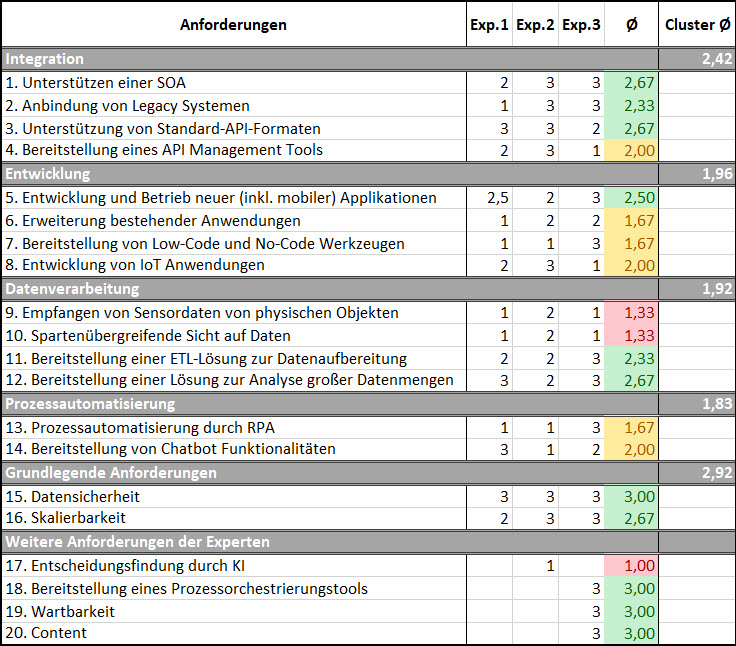
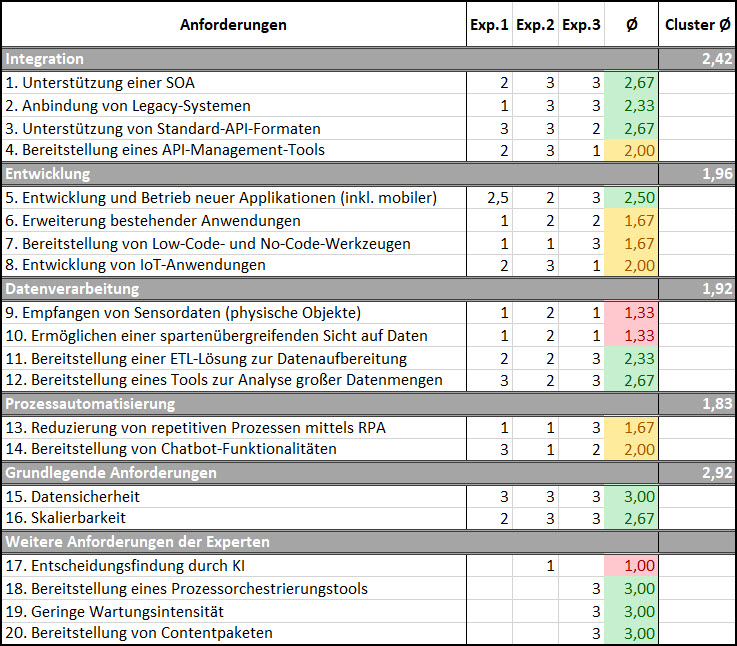
Kapitel 4 fertig

diff --git a/content/evaluation.tex b/content/evaluation.tex
@@ -4,8 +4,6 @@
 
 \subsection{Literaturbetrachtung aktueller Anforderungen an digitale Plattformen}
 
-\improvement{Optimierung der Quellen bei den Anforderungen}
-
 Im Nachfolgenden werden die in der Literatur gefundenen Anforderungen unter den Punkten 1-16 beschrieben. Eine Übersicht über die identifizierten Anforderungen ist in Abbildung \ref{fig:PPAnf} dargestellt.
 
 \begin{figure}[h]
@@ -30,9 +28,9 @@ Eine der größten Herausforderungen, denen sich \ac{kfz}-Versicherungsunternehm
 
 (5) Neben der Entwicklung und dem Betrieb von klassischen Webanwendungen muss die Plattform auch \textbf{mobile Applikationen} unterstützen, da immer mehr Kunden ihre Mobilgeräte nutzen, um auf Versicherungsdienstleistungen zuzugreifen und diese zu verwalten. So können Mobile Apps beispielsweise bei einem Autounfall dazu verwendet werden, den eigenen Standort sowie Fotos vom Schaden zu teilen. \autocite[Vgl.][S. 7]{HU2020}
 
-(6) Darüber hinaus sollte es die Plattform ermöglichen, \textbf{bestehende Anwendungen} mithilfe von kleinen Programmcodes \textbf{eigenständig zu erweitern}, um die Anwendungen nach den Bedürfnissen der \ac{kfz}-Versicherer anpassen zu können. \autocite[Vgl.][]{WEINGARTNER2023}
+(6) Darüber hinaus sollte es die Plattform ermöglichen, \textbf{bestehende Anwendungen} mithilfe von kleinen Programmcodes eigenständig \textbf{zu erweitern}, um die Anwendungen nach den Bedürfnissen der \ac{kfz}-Versicherer anpassen zu können. \autocite[Vgl.][]{WEINGARTNER2023}
 
-(7) Hierbei gilt es zu berücksichtigen, dass insbesondere bei kleinen und mittelgroßen Versicherern die Entwicklungsressourcen sehr knapp sind. Daher sollte die Plattform ebenfalls sogenannte \textbf{Low- oder besser No-Code-Werkzeuge bereitstellen}, damit auch Nutzer aus den Fachabteilungen kleine Applikationen sowie Erweiterungen erstellen können.\autocite[Vgl.][]{VBLOWCODE2022}
+(7) Hierbei gilt es zu berücksichtigen, dass insbesondere bei kleinen und mittelgroßen Versicherern die Entwicklungsressourcen sehr knapp sind. Daher sollte die Plattform ebenfalls sogenannte \textbf{Low-Code- sowie No-Code-Werkzeuge bereitstellen}, damit auch Nutzer aus den Fachabteilungen kleine Applikationen sowie Erweiterungen erstellen können.\autocite[Vgl.][]{VBLOWCODE2022}
 
 (8, 9) Ein weiterer Trend, der die letzten Jahre insbesondere bei jungen Fahrern sehr beliebt ist, sind Telematik-Tarife. Telematik bezeichnet dabei allgemein die Verbindung von Informatik und Telekommunikation, \autocite[Vgl.][S. 10-11]{ABTS2017} und ermöglicht in der \ac{kfz}-Versicherungsbranche die Berücksichtigung des individuellen Fahrverhaltens des Versicherungsnehmers sowie anderer externer Rahmenbedingungen bei der Prämienbestimmung \autocite[Vgl.][S. 84]{MERZINGER2017}. So kann der Versicherer seine Produkte besser an das Risikoprofil seiner Kunden anpassen und die Kunden bei einer zurückhaltenden Fahrweise von günstigeren Preisen profitieren. Hierfür werden mithilfe von Sensoren im Auto verschiedene Daten zum Fahrstil des Nutzers erfasst und zur Tarifierung an den Versicherer übermittelt. \autocite[Vgl.][S. 3-4]{ELING2020} Für den Einsatz von technologischen Plattformen bei \ac{kfz}-Versicherern ist es folglich wichtig, dass die Plattform \textbf{Sensordaten von physischen Objekten in Echtzeit empfangen kann} \autocite[Vgl.][S. 10-15]{WEICHERT2015}. Zudem sollte die Plattform auch Möglichkeiten zur \textbf{Entwicklung von \ac{iot}-Anwendungen} bereitstellen, um Sensordaten in Geschäftsprozesse integrieren zu können. 
 
@@ -46,8 +44,7 @@ Eine der größten Herausforderungen, denen sich \ac{kfz}-Versicherungsunternehm
 
 (14) Gemäß Reich (2019) besteht eine zusätzliche Option für die Automatisierung von Kundeninteraktion in der \ac{kfz}-Versicherungsbranche bei Fällen wie Anträgen, Auskünften oder Schadensmeldungen durch den Einsatz von Chatbots. So können Fragen von Kunden, insbesondere solche, die sich auf Versicherungspolicen, Abrechnungen oder Schadensmeldungen beziehen, jederzeit beantwortet werden, ohne dass der Kunde auf einen Mitarbeiter warten muss. Dadurch kann der Bedarf nach Mitarbeitern in der Sachbearbeitung reduziert und die Kundenzufriedenheit erhöht werden, weshalb die Plattform für Versicherer auch \textbf{Chatbot-Funktionalitäten} bereitstellen sollte. \autocite[Vgl.][S. 300-302]{REICH2019}
 
-(15) Die strikten regulatorischen Anforderungen innerhalb der Versicherungsbranche erfordern eine ausgeprägte \textbf{Datensicherheit} für alle verwendeten Softwarelösungen, einschließlich technischer Plattformen. Da die individuelle Überprüfung des Sicherheitsniveaus zu aufwändig ist, greifen Versicherungsunternehmen in der Praxis auf Zertifizierungen und Testate zurück. \autocite[Vgl.][S. 777]{ZDANOWIECKI2016} Die \acsu{iso}/\acsu{iec} 27001 Norm, der International Organization for Standardization sowie der International Electrotechnical Commission dient dabei als Standard für Cloud-basierte Lösungen. Zusätzlich müssen Kfz-Versicherer sicherstellen, dass die Verarbeitung von personenbezogenen Daten den Vorschriften der \ac{dsgvo} entspricht. Hierfür wurde der Standard ISO/IEC 27018 festgelegt. Folglich sollte eine technische Plattform für \ac{kfz}-Versicherer sowohl \textbf{nach ISO/IEC 27001 als auch nach ISO/IEC 27018 zertifiziert} sein. 
-\improvement{Fehlt hier ein Zitat}
+(15) Die strikten regulatorischen Anforderungen innerhalb der Versicherungsbranche erfordern eine ausgeprägte \textbf{Datensicherheit} für alle verwendeten Softwarelösungen, einschließlich technischer Plattformen. Da die individuelle Überprüfung des Sicherheitsniveaus zu aufwändig ist, greifen Versicherungsunternehmen in der Praxis auf Zertifizierungen und Testate zurück. \autocite[Vgl.][S. 777]{ZDANOWIECKI2016} Die \acsu{iso}/\acsu{iec} 27001 Norm, der International Organization for Standardization sowie der International Electrotechnical Commission dient dabei als Standard für Cloud-basierte Lösungen. Zusätzlich müssen Kfz-Versicherer sicherstellen, dass die Verarbeitung von personenbezogenen Daten den Vorschriften der \ac{dsgvo} entspricht. Hierfür wurde der Standard ISO/IEC 27018 festgelegt.\autocite[Vgl.][S. 194-196]{HENNRICH2023} Folglich sollte eine technische Plattform für \ac{kfz}-Versicherer sowohl \textbf{nach ISO/IEC 27001 als auch nach ISO/IEC 27018 zertifiziert} sein. 
 
 (16) Eine weitere Anforderung, die ebenfalls von Beginn an erfüllt sein sollte, ist die Fähigkeit der \textbf{Plattform zur horizontalen und vertikalen Skalierbarkeit}. Dies erfordert, dass die Plattform zusätzliche Server automatisch starten und Lasten auf mehrere Server verteilen kann, um hohe Nutzerzahlen zu bewältigen, wie sie speziell im Herbst bei \ac{kfz}-Versicherern aufgrund des verstärkten Wechsels von Versicherungsnehmnern vorkommen können. (horizontale Skalierbarkeit). Des Weiteren muss die Plattform in der Lage sein, je nach Bedarf die Rechenleistung und Speicherkapazität des Servers zu erhöhen, um einem höheren Ressourcenbedarf gerecht zu werden (vertikale Skalierbarkeit). \autocite[Vgl.][S. 23]{JAHNERT2020}
 
@@ -57,17 +54,15 @@ Eine der größten Herausforderungen, denen sich \ac{kfz}-Versicherungsunternehm
 
 \improvement{Hier die Punkte der Bafin noch mit dazunehmen}
 
-Die zuvor aus der Literatur herausgearbeiteten Anforderungen konnten von allen Experten bestätigt werden. Hervorgehoben wurde dabei insbesondere, dass der Preis für den Endkunden der alles entscheidende Faktor ist und daher aktuell alle \ac{kfz}-Versicherer versuchen, ihre komplette Lieferkette zu digitalisieren. Dabei wurde ebenfalls die Unterstützung von mobilen Anwendungen als sehr wichtig betont, um dort dann beispielsweise Tätigkeiten wie das Buchen eines Werkstatttermins durchzuführen. 
+Die zuvor aus der Literatur herausgearbeiteten Anforderungen konnten von allen Experten bestätigt werden. Hervorgehoben wurde dabei insbesondere, dass der Preis für den Endkunden der alles entscheidende Faktor ist und daher aktuell alle \ac{kfz}-Versicherer versuchen, ihre komplette Lieferkette zu digitalisieren. Dabei wurde ebenfalls die Unterstützung von mobilen Anwendungen als sehr wichtig betont, um dort dann beispielsweise Tätigkeiten wie das Buchen eines Werkstatttermins durchzuführen. Des Weiteren wurde von Experte 1 das Unterstützen einer \enquote{Entkopplungsarchitektur} als Anforderung genannt, damit \ac{kfz}-Versicherer agil an der Kundenschnittstelle agieren und gleichzeitig auf die statischen Informationen aus den Altsystemen zugreifen können.\autocite[Vgl.][]{LEMONIDIS2023} Die dafür notwendige Kapselung der Altsysteme und das Bereitstellen dieser über Schnittstellen unterstützt im Wesentlichen die Anforderung einer \ac{soa}. Zudem wurde von Experte 2 die leichte Integration der \ac{kfz}-Versicherer in Ökosysteme und Vertriebskanäle wie Check24 mit den Schlagworten Open Insurance und Embedded Insurance betont.\autocite[Vgl.][]{GREBERT2023} Beide werden im Rahmen dieser Arbeit unter der Anforderung \enquote{Unterstützung von Standard-API-Formaten} zusammengefasst, da diese die dafür notwendige Voraussetzung sind. Weitere Anforderungen, die von den Experten ergänzt wurden, werden im Folgenden kurz vorgestellt.
 
-Des Weiteren wurde von Experte 1 das Unterstützen einer \enquote{Entkopplungsarchitektur} als Anforderung genannt, damit \ac{kfz}-Versicherer agil an der Kundenschnittstelle agieren und gleichzeitig auf die statischen Informationen aus den Altsystemen zugreifen können.\autocite[Vgl.][]{LEMONIDIS2023} Die dafür notwendige Kapselung der Altsysteme und das Bereitstellen dieser über Schnittstellen unterstützt im Wesentlichen die Anforderung einer \ac{soa}. Zudem wurde von Experte 2 die leichte Integration der \ac{kfz}-Versicherer in Ökosysteme und Vertriebskanäle wie Check24 mit den Schlagworten Open Insurance und Embedded Insurance betont.\autocite[Vgl.][]{GREBERT2023} Beide werden im Rahmen dieser Arbeit unter der Anforderung offene Schnittstellenstandards zusammengefasst, da diese die dafür notwendige Voraussetzung sind. Weitere Anforderungen, die von den Experten ergänzt wurden, werden im Folgenden kurz vorgestellt.
+(17) \textbf{Entscheidungsfindung durch \ac{ki}} – Für Experte 2 stellte zudem das Unterstützen der \ac{kfz}-Versicherer bei der Entscheidungsfindung durch \ac{ki}-Modelle in Prozessen wie der Akquise oder dem Schadensprozess eine weitere Anforderung dar, um bestimmte Sachverhalte prüfen zu lassen.\autocite[Vgl.][]{GREBERT2023} 
 
-(17) Entscheidungsfindung durch \ac{ki} – Für Experte 2 stellte zudem das Unterstützen der \ac{kfz}-Versicherer bei der Entscheidungsfindung durch \ac{ki} Modelle in Prozesse wie der Akquise oder dem Schadensprozess eine weitere Anforderung dar, um bestimmte Sachverhalte prüfen zu lassen.\autocite[Vgl.][]{GREBERT2023} 
+(18) \textbf{Bereitstellung eines Prozessorchestrierungstools} – Aus Sicht des Experten 3 ist es für \ac{kfz}-Versicherer zudem wichtig, dass die Plattform ein Prozessorchestrierungstool bereitstellt, mit dem Prozesse systemübergreifend end-to-end designt, verwaltet und gezielt Prozessschritte in den jeweiligen Lösungen über Schnittstellen angesteuert werden können. \autocite[Vgl.][]{SCHMIDT2023} 
 
-(18) Bereitstellung einer Prozessorchestrierungslösung – Aus Sicht des Experten 3 ist es für \ac{kfz}-Versicherer zudem wichtig, dass die Plattform ein Prozessorchestrierungstool bereitstellt, mit dem Prozesse systemübergreifend end-to-end designt, verwaltet und gezielt Prozessschritte in den jeweiligen Lösungen über Schnittstellen angesteuert werden können. \autocite[Vgl.][]{SCHMIDT2023} 
+(19) \textbf{Geringe Wartungsintensität} – Für Experte 3 stellte eine weitere grundlegende Anforderung die einfache Wartbarkeit der Plattform dar, sodass beispielsweise neue Releases automatisch eingespielt und damit die neuesten Technologien direkt bereitgestellt werden können. \autocite[Vgl.][]{SCHMIDT2023} 
 
-(19) Wenig Wartungsaufwand – Für Experte 3 stellte eine weitere grundlegende Anforderung die einfache Wartbarkeit der Plattform dar, sodass beispielsweise neue Releases automatisch eingespielt und damit die neuesten Technologien direkt bereitgestellt werden können. \autocite[Vgl.][]{SCHMIDT2023} 
-
-(20) Contentpakete – Aus Sicht des Experten 3 sollte eine technische Plattform neben den bereitgestellten Tools in den einzelnen Clustern auch Contentpakete bereitstellen. Mit dem Begriff Content sind dabei Inhalte gemeint, die den Implementierungsaufwand in den einzelnen Bereichen reduzieren. Das können bspw. vordefinierte Schnittstellen, Adaptoren oder auch vordefinierte Frameworks sein. \autocite[Vgl.][]{SCHMIDT2023} 
+(20) \textbf{Bereitstellung von Contentpaketen} – Aus Sicht des Experten 3 sollte eine technische Plattform neben den bereitgestellten Tools in den einzelnen Clustern auch Contentpakete bereitstellen. Mit dem Begriff Content sind dabei Inhalte gemeint, die den Implementierungsaufwand in den einzelnen Bereichen reduzieren. Das können bspw. vordefinierte Schnittstellen, Adaptoren oder auch vordefinierte Frameworks sein. \autocite[Vgl.][]{SCHMIDT2023} 
 
 Nach Überprüfung und Ergänzung der in der Literatur gefundenen Anforderungen, wurden die Anforderungen von den Experten ebenfalls nach ihrer Wichtigkeit in den nächsten Jahren priorisiert. Die Aufgaben wurden nach Themen gruppiert und die Bewertung durch die Experten zunächst einzeln aufgeführt und dann Durchschnittswerte je Anforderung und je Cluster gebildet. Die Experten konnten einen Wert von 1-3 vergeben, wobei 1 für eine niedrige, 2 für eine mittlere und 3 für eine hohe Priorität steht. Wurden von einem Experten weitere Anforderungen benannt und diese im Rahmen der Analyse zu bereits identifizierten Anforderungen dazugezählt, wird für die Priorisierung der Anforderung der Mittelwert gebildet.
 
@@ -95,8 +90,6 @@ Anhand der Abbildung \ref{fig:Gewichtung} ist zu erkennen, dass die Experten die
 
 Aufgrund des begrenzten Umfangs dieser Projektarbeit werden vom umfangreichen Serviceportfolio der SAP \ac{btp} im Folgenden nur die Kernfunktionalitäten in den Bereichen Datenmanagement, Datenanalyse, Anwendungsentwicklung, Integration und intelligente Technologien vorgestellt. Grundsätzlich lässt sich festhalten, dass die Services der einzelnen Bereiche als Cloud Service konsumierbar sind und daher Cloud-Eigenschaften wie Elastizität, Skalierung und Hochverfügbarkeit erfüllen. \autocite[Vgl.][S. 60]{SEUBERT} Zudem ist die SAP \ac{btp} nach den Standards ISO27001, ISO27017, ISO27018, ISO22301 und C5 zertifiziert und entspricht damit den gängigen Anforderungen an die Datensicherheit.(vgl. \ref{sec:BTPZertifikate}) Die Services aus den einzelnen Bereichen bauen dabei auf den sogenannten Foundational Services auf. Diese umfassen beispielsweise ein Identity Service zur Authentifizierung, ein Audit-Log-Service zum Aufzeichnen von sicherheitsrelevanten Handlungen oder einen Application Autoscaler Service zur automatischen Skalierung von Anwendungen. \autocite[Vgl.][S. 58]{SEUBERT}
 
-\improvement{Abbildung als Übersicht über die BTP einbauen}
-
 Im Bereich des \textbf{Datenmanagements} lassen sich mit der SAP \ac{btp} verschiedene Datenarchitekturen wie beispielsweise eine zentrale Datenplattform oder ein Data Fabric realisieren. Diese können aufgrund des Plattformansatzes kontinuierlich weiterentwickelt und miteinander kombiniert werden. Für die transaktionale Verarbeitung von Daten kann der Datenbankservice SAP \ac{hana} Cloud der \ac{btp} verwendet werden, um Daten gemäß ihrer Eigenschaften zu organisieren und zu verarbeiten. Darüber hinaus ermöglicht der Data Intelligence Service der \ac{btp} den Aufbau einer Data Fabric Architektur. \autocite[Vgl.][S. 64-66]{SEUBERT} So können mit dem Service unstrukturierte und strukturierte Daten aus verschiedenen Quellen (Datenbanken, \ac{it}-Anwendungen, Dateisysteme, Cloud-Service) unabhängig vom Betriebsmodell der Datenquelle integriert werden. Zudem können die für die Integration und Verarbeitung der Daten erforderlichen Aufgaben vom Data Intelligence Service orchestriert werden. \autocite[Vgl.][]{DATAINTELLIGENCE} Zur Aufbereitung der Daten kann der SAP Datasphere Service eingesetzt werden. Dieser kann die Daten aus den unterschiedlichen Systemen föderieren, transformieren und zur Auswertung in ein dafür geeignetes Zielsystem, wie die \ac{sac} laden. \autocite[Vgl.][S. 3]{FSDDATASPHERE}  Dabei gilt es zu erwähnen, dass der Datasphere Service langfristig die Integrationsfunktionalitäten des Data Intelligence Services übernehmen soll. \autocite[Vgl.][]{QUIRK2023}
 
 Die Funktionalitäten und Services der SAP \ac{btp} zur \textbf{Datenanalyse} bauen auf den Services des Datenmanagements auf, da die Daten für die Analyse in einer strukturierten Form bereitgestellt werden müssen. Der zentrale Service wird dabei von der SAP Analytics Cloud repräsentiert, welche als \ac{saas}-Produkt Funktionen für \ac{bi}, Unternehmensplanung und die prädiktive Analysen zur Verfügung stellt. Mit den Selfservice-Funktionen für \ac{bi} können die aufbereiteten Daten von Graphen, Tabellen und Karten in einem einheitlichen Dashboard visualisiert und als Bericht geteilt werden. Darüber hinaus ermöglicht die \ac{sac} Business Reporting, indem die Nutzer durch verschiedene Filter- und Drill-Down-Funktionen mit den Darstellungen interagieren und Zusammenhänge aufdecken können. Für die Unternehmensplanung können mit der \ac{sac} Finanz- und Betriebspläne in Form von Tabellen erstellt und miteinander verknüpft werden, um Auswirkungen von veränderten Planungseingaben auf andere Unternehmensbereiche direkt zu erkennen. Mithilfe prädiktiver Analysen können zudem auf der Grundlage historischer Daten Prognosen erstellt werden, die direkt in die Einsatzplanung integriert werden können. \autocite[Vgl.][S. 64-67]{SEUBERT} Dazu können die ausgewählten Datensätze mithilfe von Klassifikations-, Regressions- und Zeitreihenanalysen untersucht werden. \autocite[Vgl.][]{FSDSAC2023}
@@ -118,7 +111,7 @@ Das Ziel des vorliegenden Abschnitts ist der Vergleich der identifizierten Anfor
 
 \begin{figure}[ht]
     \centering
-    \includegraphics[width=1\textwidth]{img/TTFTeil1E2.jpg}
+    \includegraphics[width=1\textwidth]{img/TTFTeil1_1_4.jpg}
     %\caption[Vergleich der Task und Technologie Charakteristika Teil 1]{Vergleich der Task und Technologie Charakteristika Teil 1\autocite{TFTeil1}}
     %\footnotetext{eigene Darstellung}
     \label{fig:TTFTeil1}
@@ -128,7 +121,7 @@ Das Ziel des vorliegenden Abschnitts ist der Vergleich der identifizierten Anfor
 
 \begin{figure}[ht]
     \centering
-    \includegraphics[width=1\textwidth]{img/TTFTeil2E.jpg}
+    \includegraphics[width=1\textwidth]{img/TTFTeil1_6_16.jpg}
     %\caption[Vergleich der Task und Technologie Charakteristika Teil 2]{Vergleich der Task und Technologie Charakteristika Teil 2\autocite{TFTeil2}}
     %\footnotetext{eigene Darstellung}
     \label{fig:TTFTeil2}
@@ -138,13 +131,12 @@ Das Ziel des vorliegenden Abschnitts ist der Vergleich der identifizierten Anfor
 
 \begin{figure}[ht]
     \centering
-    \includegraphics[width=1\textwidth]{img/TTFTeil3E.jpg}
+    \includegraphics[width=1\textwidth]{img/TTFTeil1_17_20.jpg}
     \caption[Synthese der Task und Technologie Charakteristika ]{Synthese der Task und Technologie Charakteristika \autocite{TTFTeil3}}
     \label{fig:TTFTeil3}
 \end{figure}
 \footnotetext{eigene Darstellung, Quellen: \cites[Vgl.][]{GARTNERINC2023}; \cites[Vgl.][]{GARTNERINC2023b}; \cites[Vgl.][]{GARTNERINC2023c}; \cites[Vgl.][]{GARTNERINC2023d}; \cites[Vgl.][]{GARTNERINC2023e}; \cites[Vgl.][]{GARTNERINC2023f}; \cites[Vgl.][]{G22023}; \cites[Vgl.][]{GARTNERINC2023g} }
 
-\improvement{Fotos richtig machen, Rechtschreibung überarbeiten}
 %\begin{figure}[ht]
    % \centering
     %\includegraphics[width=1\textwidth]{img/TTFTeil3E.jpg}
@@ -154,10 +146,6 @@ Das Ziel des vorliegenden Abschnitts ist der Vergleich der identifizierten Anfor
 %\end{figure}
 
 \FloatBarrier
-
-\improvement{Quellen in die Abbildung der Synthese mit aufnehmen}
-
-\improvement{Worst Case bei Verschiebung der Seiten aufgrund des Textes, punkte 5 und 6 zur 2. Abbildung schieben und ggf. bei Skalierbarkeit die Begründung verkürzen}
 
 Die Synthese der Task- und Technologie-Charakteristika in Abbildung \ref{fig:TTFTeil3} zeigt, dass bis auf die Anforderung, Chatbot-Funktionalitäten bereitzustellen, die SAP \ac{btp} alle Anforderungen der \ac{kfz}-Versicherer an eine digitale Plattform erfüllt. Somit besteht ein sehr hoher Task-Technology-Fit. Weiterhin ist festzustellen, dass die SAP \ac{btp} im Vergleich zu konkurrierenden Produkten in den Bereichen Integration, Anwendungsentwicklung und Prozessorchestrierung eine überdurchschnittlich gute Leistung erbringt. Damit hebt sich die SAP \ac{btp} in genau den Anforderungsbereichen von den Lösungen der Mitbewerber ab, die für \ac{kfz}-Versicherer in den nächsten drei bis fünf Jahren gemäß der Experten besonders wichtig sind (siehe Abbildung \ref{fig:Gewichtung}). Folglich ist die SAP \ac{btp} als digitale Plattform für \ac{kfz}-Versicherer sehr gut geeignet, da sie alle wichtigen Anforderungen durchschnittlich oder überdurchschnittlich erfüllt und die fehlende Funktionalität von den Experten nur mit einer mittleren Wichtigkeit eingestuft wird. 
 

diff --git a/content/grundlagen.tex b/content/grundlagen.tex
@@ -12,7 +12,7 @@ Gegenwärtig sind sowohl in der wissenschaftlichen Literatur als auch in der unt
 Aus einem \textbf{technologieorientierten Blickwinkel} wird eine digitale Plattform als eine Menge von Kernprodukten, -technologien oder -services verstanden, auf deren Basis weitere komplementäre Produkte, Technologien oder Services entwickelt und angebunden werden können.\autocite[Vgl.][S. 21]{ENGELS2017} Folglich werden hier auch komplexe Informations- technologie-Systeme (\acsu{it}-Systeme), Software- und Hardware-Plattformen dazugezählt.\autocite[Vgl.][S.222f]{WEINREICH2016}
 
 Aus einer \textbf{marktorientierten Perspektive} wird eine Plattform als ein Markt betrachtet, in welchem gegenseitige Nutzerinteraktionen zu Netzwerkeffekten führen. \autocite[Vgl.][S. 1273f]{EISENMANN2011} Diese sind aufgrund der digitalen Plattform mit minimalen Investitionen skalierbar, weshalb sie insbesondere in traditionellen Märkten als disruptive Innovation angesehen werden. \autocite[Vgl.][S. 17ff]{MOAZED2016} Hierbei begünstigen die technologischen Möglichkeiten wie Cloud-Computing in Verbindung mit den Netzwerkeffekten die Bildung von Oligopol- bzw. Monopol-Marktstrukturen.\autocite[Vgl.][S. 23]{ENGELS2017} Ein Beispiel hierfür sind die sogenannten \acsu{gafa} Unternehmen: Google (Alphabet), Apple, Facebook (Meta) und Amazon, welche digitale Plattformen zur Realisierung von digitalen Ökosystemen einsetzen und sich dadurch ihre führende Marktposition sichern konnten. \autocite[Vgl.][S. 92f]{BUNTE2020} 
-%\improvement{Bernd: Aufbauen bereits bei Realisierung impliziert}
+
 
 Nach dem Frauenhofer \ac{iese} ist ein digitales Ökosystem ein sozio-technisches System, bei dem Menschen und Unternehmen über eine digitale Plattform zusammenzuarbeiten, um eine Wertschöpfung zu erzielen, welche ohne das Ökosystem nicht möglich wäre. \autocite[Vgl.][S. 376]{MULLERSTEWENS2019} Dabei stellt die digitale Plattform die technologische Grundlage für das dazugehörige Ökosystem dar. \autocite[Vgl.][S. 376]{IESE2021} Folglich sind die beiden Termini sehr eng miteinander verknüpft.
 
@@ -25,7 +25,7 @@ Für die Untersuchung dieser Arbeit werden digitale Plattformen nach der technol
 \subsection{Wertschöpfung digitaler Plattformen}
 
 Bei der Betrachtung der Wertschöpfung muss neben der digitalen Plattform als solches auch das dazugehörige Ökosystem betrachtet werden, in welchem die Plattform die Koordinationsstruktur für die unterschiedlichen Teilnehmer darstellt. Die digitale Plattform ermöglicht das gemeinsame Wertschöpfen, auch Value Co-Creation genannt, durch die Bereitstellung von komplementären Services und Produkten. Dabei ist der Wert der Plattform von den in Wechselwirkungen stehenden Faktoren der Größe des Kundenstamms als auch von der Vielfältigkeit der angebotenen Produkte und Services abhängig. Diese bestehende Wechselwirkung wird umgangssprachlich auch als „chicken and egg dilemma“ bezeichnet und stellt eine besondere Herausforderung für neu entstehende digitale Plattformen dar, weil keine der beiden Seiten bereit ist, sich anzuschließen, solange die andere Partei nicht ausreichend vertreten ist. \autocite[Vgl.][S. 310]{CAILLAUD2003} 
-%\improvement{Liest sich kacke, versteht Luca nicht} 
+
 Diese Wechselwirkung führt zu den sogenannten Netzwerkeffekten, welche vor allem mit einer steigenden Anzahl an Teilnehmern exponentiell zunehmen. Daher haben sowohl Plattformbetreiber als auch Kunden und Partner ein großes Interesse möglichst viele potenzielle Nutzer auf die Plattform zu bringen und mit ihnen zu interagieren. \autocite[Vgl.][S. 596f.]{HAHN2016} 
 
 Die Wertschöpfung digitaler Plattformen wird auch durch das Schaffen neuer Vertriebskanäle unterstützt. So werden traditionelle Vertriebsstrukturen durch elektronische Marktplätze ersetzt und dadurch der Kundenzugang für komplementäre Dienstleister erleichtert. Diese profitieren darüber hinaus auch von vereinfachten und vereinheitlichten Transaktions- und Koordinationsaktivitäten. Dies kann beispielsweise durch die Standardisierung von Prozessen und Informationsflüssen erfolgen. So sind Applikationen für den Endkunden bereits vor integriert, können bei Bedarf schnell erworben und produktiv genutzt werden.\autocite[Vgl.][S. 599f.]{HAHN2016}
@@ -65,8 +65,6 @@ Neben den bisher dargestellten Komponenten stellen Plattformbetreiber häufig we
     \label{fig:PaaSK}
 \end{figure}
 \footnotetext{Vgl. eigene Darstellung angelehnt an: Hahn, 2016, S. 599 und Beimborn et al., 2011, S. 372.}
-
-%\improvement{Grafik anpassen --> SaaS Applikation kann ja wohl kaum verpflichtend sein, wenn ich PaaS kaufe}
 
 In einem solchen Plattform-Ökosystem gibt es mindestens drei Akteure: Den Plattformbetreiber, die Komplementäre, welche beispielsweise Entwickler oder auch ein \ac{isv} Entwickler sein können, sowie die Endkunden. Der Plattformbetreiber stellt im Falle von \ac{apaas} die Plattform mit der dazugehörigen Kernapplikation zur Verfügung und ermöglicht es Komplementären wie \ac{isv}s Add-Ons für sein Kernprodukt zu entwickeln, um die Reichweite des Hauptproduktes zu steigern. Die \ac{isv} können zur Entwicklung von Erweiterungen und Stand-alone-Applikationen dabei auch bestehende Teile der Plattform nutzen und neu kombinieren. Darüber hinaus kann der Plattformanbieter auch selbst die Rolle eines Anwendungsentwicklers einnehmen.\autocite[Vgl.][S. 444f]{FOERDERER2018} Für den Endkunden selbst ist häufig nicht erkennbar, von wem die Applikation erstellt wurde, da er diese im Sinne des \ac{saas} direkt vom \ac{paas}-Anbieter bezieht. \autocite[Vgl.][S. 372]{BEIMBORN2011}
 
@@ -114,13 +112,12 @@ Die Kraftfahrtversicherung ist mit einem Volumen von 29 Milliarden € in 2021 d
 
 \begin{figure}[h]
     \centering
-    \includegraphics[width=0.9\textwidth]{img/KfzV_Bestände_an_Verträgen_2021.jpg}
+    \includegraphics[width=1\textwidth]{img/KfzV_Bestände_an_Verträgen_2021.jpg}
     \caption[Bestände an Kfz-Versicherungsverträgen in Deutschland 2021]{Bestände an Kfz-Versicherungsverträgen in Deutschland 2021\autocite{KfzVVBestand}}
     \label{fig:KfzVVBestand}
 \end{figure}
 \footnotetext{Vgl. eigene Darstellung angelehnt an: GDV - Gesamtverband der Versicherer, 2022.}
 %\caption[Bestände an Verträgen in der Kfz-Versicherung in Deutschland 2021]{Bestände an Verträgen in der Kfz-Versicherung in Deutschland 2021\autocite{KfzVVBestand}}
-\improvement{Grafik für den Wettbewerbsfaktor: Rechte Seite: Marktanteile der Versicherungsunternehmen wie Allianz und Co.; Anzahl / Entwicklung}
 
 Wie in Abbildung \ref{fig:KfzVVBestand} zu erkennen, macht die \ac{kfz}-Haftpflichtversicherung den größten Teil der \ac{kfz}-Versicherung aus. Der Grund dafür ist, dass eine \ac{kfz}-Zulassung in Deutschland nur mit dem Nachweis einer Haftpflichtversicherung erfolgen kann. Folglich gehört sie zu den Pflichtversicherungen und deckt den Schaden, der durch die Fahrzeugverwendung gegenüber einem Dritten entsteht. \autocite[Vgl.][S. 81]{STADLER2008}
 

diff --git a/content/vorgehensweise.tex b/content/vorgehensweise.tex
@@ -43,10 +43,9 @@ Innerhalb des \acs{ttf}-Modells beziehen sich die Technologie Charakteristika au
 \section{Systematische Literaturanalyse}
 
 
-Im Rahmen des \acs{ttf}-Modells wurde eine systematische Literaturanalyse zur Identifikation der Anforderungen der \ac{kfz}-Versicherer an digitale Plattformen durchgeführt. Hierfür wurden zunächst die für die Task Charakteristika relevanten Suchbegriffe auf Deutsch und Englisch festgelegt, siehe Tabelle \ref{tab:suchbegriffe} im Anhang. Daraufhin wurde mithilfe dieser Suchbegriffe die Datenbanken Google Scholar, EBSCO Discovery Service (aufgerufen über die Metasuche der DHBW Mannheim), \ac{jstor} sowie Google nach Fachliteratur, internationalen und nationalen Zeitschriften, Studien, Magazinen und Internetartikeln durchsucht. Die dabei angewendeten Suchkriterien sind in Tabelle \ref{tab:kriterien} im Anhang aufgezeigt. Grundlage für die Betrachtung der Recherche-Ergebnisse waren der Titel, die Kurzfassung, die Gliederung, die Einleitung sowie die Zusammenfassung der jeweiligen Quelle. Dabei wurden die ausgewählte Literatur zur Identifikation der Task Charakteristika als Ganzes oder in Ausschnitten gelesen und analysiert. \autocite[Vgl.][]{SOLIS2021}
+Im Rahmen des \acs{ttf}-Modells wurde eine systematische Literaturanalyse zur Identifikation der Anforderungen der \ac{kfz}-Versicherer an digitale Plattformen durchgeführt. Hierfür wurden zunächst die für die Task Charakteristika relevanten Suchbegriffe auf Deutsch und Englisch festgelegt, siehe Tabelle \ref{tab:suchbegriffe} im Anhang. Daraufhin wurde mithilfe dieser Suchbegriffe die Datenbanken Google Scholar, EBSCO Discovery Service, \ac{jstor} sowie Google nach Fachliteratur, internationalen und nationalen Zeitschriften, Studien, Magazinen und Internetartikeln durchsucht. Die dabei angewendeten Suchkriterien sind in Tabelle \ref{tab:kriterien} im Anhang aufgezeigt. Grundlage für die Betrachtung der Recherche-Ergebnisse waren der Titel, die Kurzfassung, die Gliederung, die Einleitung sowie die Zusammenfassung der jeweiligen Quelle. Dabei wurden die ausgewählte Literatur zur Identifikation der Task Charakteristika als Ganzes oder in Ausschnitten gelesen und analysiert. \autocite[Vgl.][]{SOLIS2021}
 
 \improvement{Optional: Quelle austauschen}
-\improvement{Tabelle im Anhang: Jahr eintragen wie bsp.: 2013}
 
 
 

diff --git a/content/einleitung.tex b/content/einleitung.tex
@@ -13,7 +13,6 @@ Die SAP \ac{btp} ist eine digitale Plattform, mit der \ac{kfz}-Versicherer ihre 
 
 Ziel dieser Arbeit ist es daher, die Anforderungen der \ac{kfz}-Versicherer an eine digitale Plattform zu identifizieren, um anschließend beurteilen zu können, inwiefern die Anforderungen der \ac{kfz}-Versicherer an eine digitale Plattform von der SAP Business Technology Plattform erfüllt werden. Die aus der Analyse resultierende Handlungsempfehlung soll \ac{kfz}-Versicherern eine praxisorientierte Vorgehensweise zur Nutzung der SAP Business Technology Plattform aufzeigen.
 
-\improvement{Muss ich hier aus dem Inwiefern nicht nochmal ein ob machen?}
 Dabei wird der deutsche \ac{kfz}-Versicherungsmarkt betrachtet, da eine Analyse inklusive internationaler Märkte aufgrund der unterschiedlichen regulatorischen Rahmenbedingungen, divergierender Prämienfaktoren sowie ungleichmäßig ausgeprägter technologischer Fortschritte nicht hinreichend aussagekräftig wäre. Des Weiteren konzentriert sich die Arbeit im Wesentlichen auf die technologischen Merkmale einer digitalen Plattform. 
 
 Darüber hinaus werden im Rahmen dieser Untersuchung digitaler Plattformen als Wettbewerbsfaktor betrachtet, nicht aber in Bezug zu anderen Wettbewerbskräften im Versicherungsmarkt gesetzt.

diff --git a/template/appendix.tex b/template/appendix.tex
@@ -36,7 +36,7 @@
         \hline  & Einschlusskriterien & Ausschlusskriterien \\[0.5ex]
         \hline Sprache & Deutsch, Englisch & Weitere Sprachen\\
         \hline Dokumententypen & Fachliteratur, internationale und nationale wissenschaftliche Zeitschriften, Studien, Magazine, Internetartikel & Weitere Veröffentlichungen\\
-        \hline Publikationszeitraum & Individuelle Bewertung der Aktualität und heutigen Relevanz & Nicht mehr aktuell oder relevant\\
+        \hline Publikationszeitraum & Veröffentlichungen von 2023 - einschließlich 2013 & Veröffentlichung vor 2013\\
         \hline Verfügbarkeit & Volltext verfügbar & Volltext nicht verfügbar\\
         \hline
     \end{tabular}
